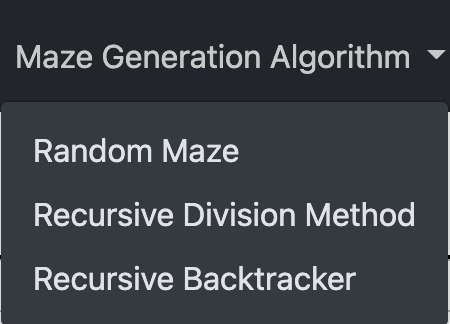
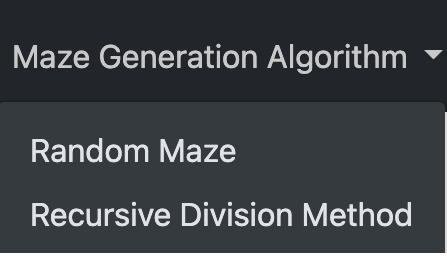
Removed recursive backtracker

diff --git a/Final/index.html b/Final/index.html
@@ -55,7 +55,7 @@
 						<div class="dropdown-menu dropdown-menu-dark" aria-labelledby="mazeAlgDropdown">
 							<a class="dropdown-item" href="#" id="random">Random Maze</a>
 							<a class="dropdown-item" href="#" id="division">Recursive Division Method</a>
-							<a class="dropdown-item" href="#" id="backtrack">Recursive Backtracker</a>
+							<!-- <a class="dropdown-item" href="#" id="backtrack">Recursive Backtracker</a> -->
 						</div>
 					</div>
 					<li class="nav-item"><a class="nav-link" href="#" id="clearboard">Clear Board</a></li>

diff --git a/Final/js/help.js b/Final/js/help.js
@@ -65,6 +65,10 @@ var page5 =
     <button class="btn btn-primary">Visualize!</button>
      to visualize the path explored by the algorithm and view the optimal route it has found from search.</div>
     <img src="img/clears.png" class="help-img" style="width: 40%;" alt="screenshot of menu"></img>
+    <div>
+    You can clear out the entire board by clicking 'Clear Board'. You can also choose to clear out only the board using 'Clear Walls'
+    or only the path using 'Clear Path'.
+    </div>
 </div>`;
 
 var page6 = 

diff --git a/Final/scripts.js b/Final/scripts.js
@@ -83,9 +83,9 @@ $(document).ready(function() {
 	document.getElementById("division").onclick = function() {
 		recursiveDivision(maze);
 	};
-	document.getElementById("backtrack").onclick = function() {
-		recursiveBacktrack(maze);
-	}
+	// document.getElementById("backtrack").onclick = function() {
+	// 	recursiveBacktrack(maze);
+	// }
 
 	document.getElementById("clearboard").onclick = function() {
 		maze.clearAll();
